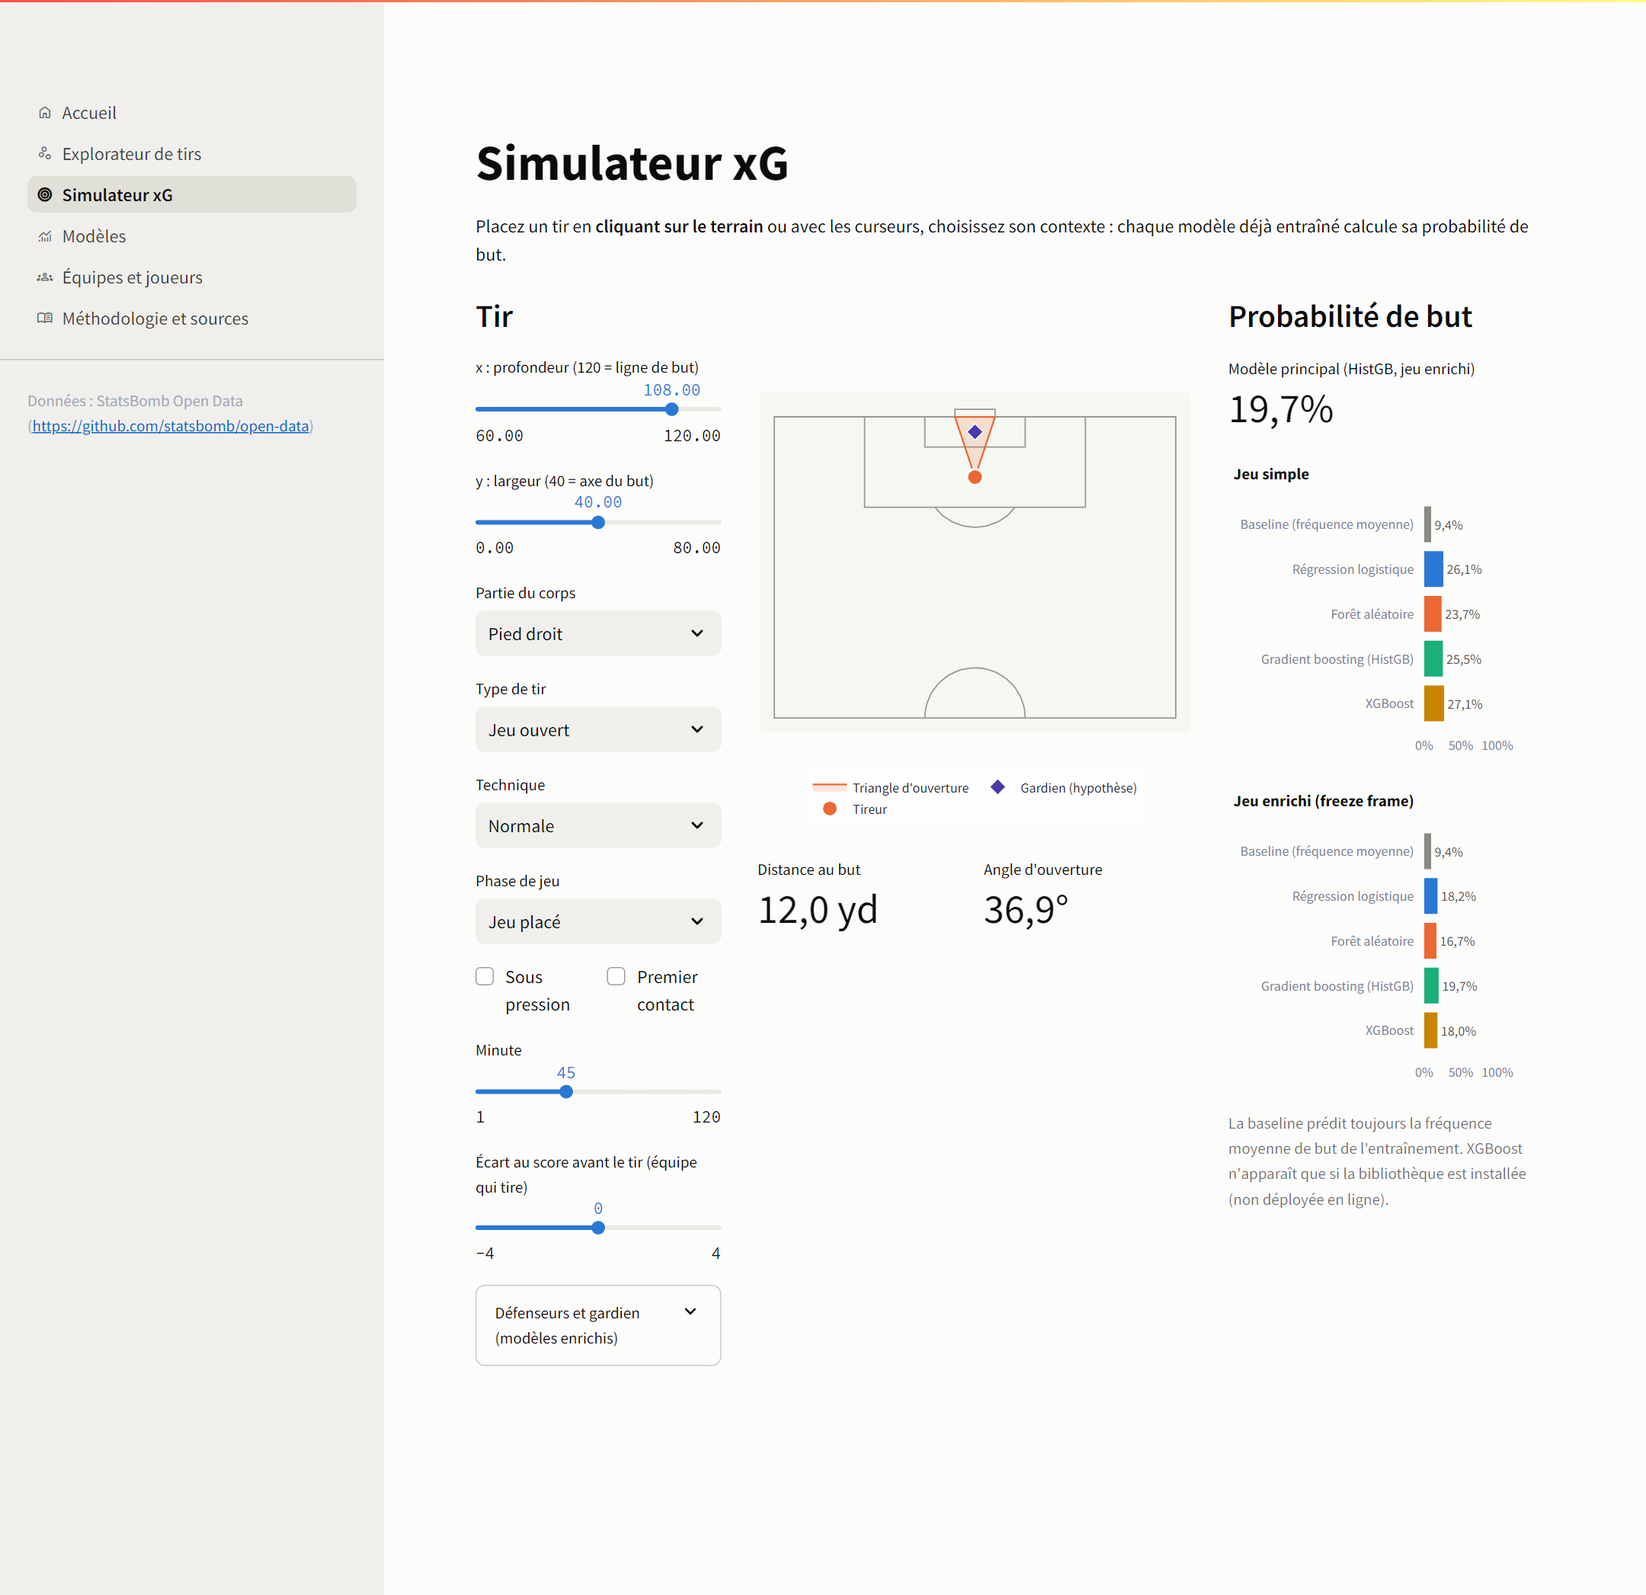
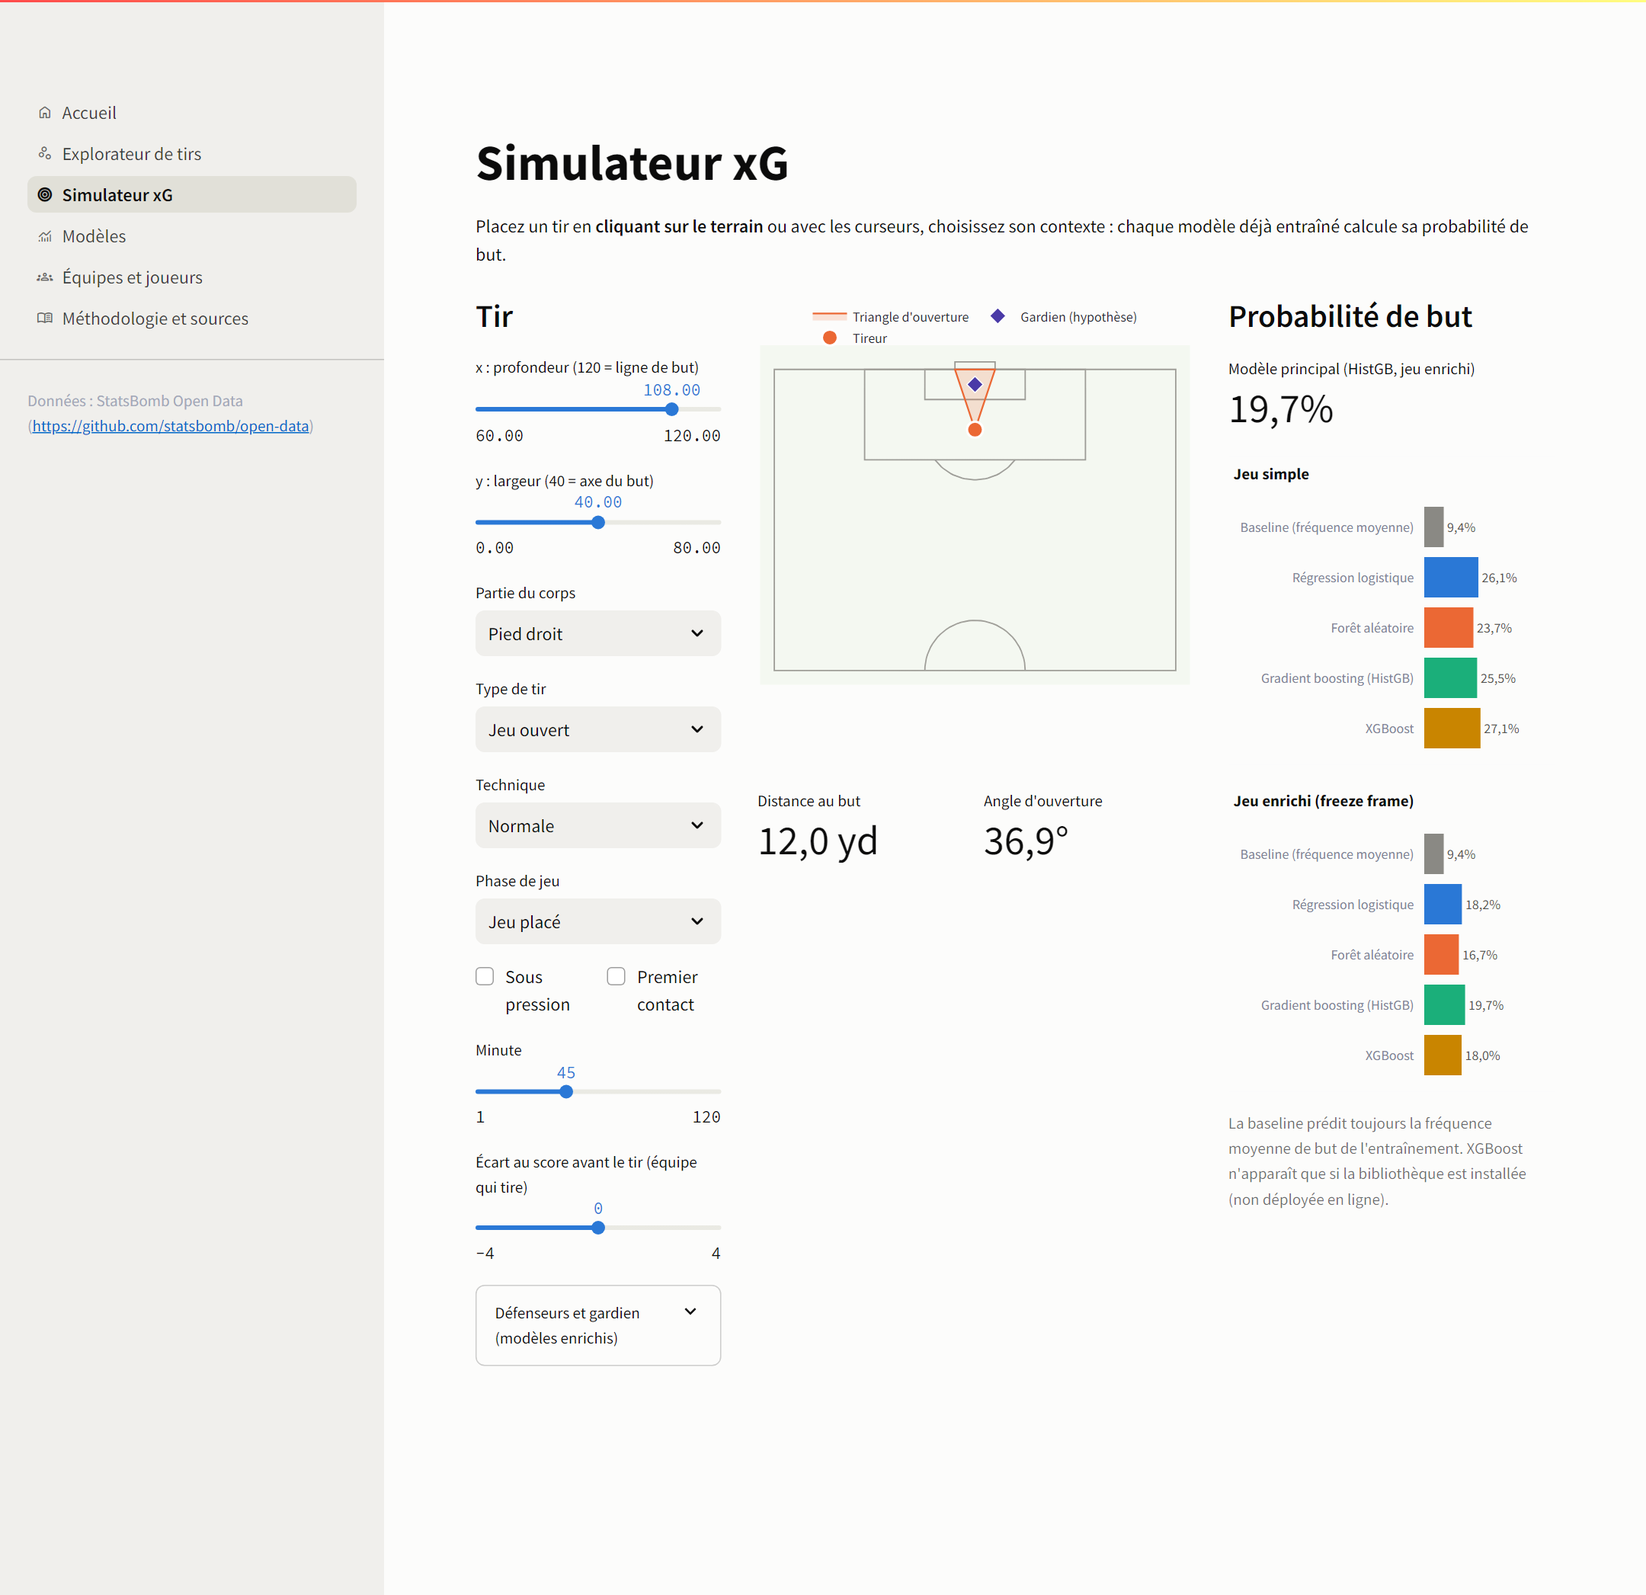
Doc : CHAPITRES.md, DEPLOY.md verifie en environnement vierge, captures finales

diff --git a/scripts/make_architecture.py b/scripts/make_architecture.py
@@ -57,21 +57,50 @@ def anchor(key: str, side: str) -> tuple[float, float]:
 def main() -> None:
     fig, ax = plt.subplots(figsize=(13, 6.6))
     for x, y, w, h, title, detail, bg, edge in BOXES.values():
-        ax.add_patch(FancyBboxPatch((x, y), w, h, boxstyle="round,pad=0.02,rounding_size=0.12",
-                                    fc=bg, ec=edge, lw=1.4))
-        ax.text(x + w / 2, y + h * 0.63, title, ha="center", va="center", fontsize=11,
-                fontweight="bold", color=TEXT_PRIMARY)
-        ax.text(x + w / 2, y + h * 0.28, detail, ha="center", va="center", fontsize=8.8,
-                color=TEXT_SECONDARY)
+        ax.add_patch(
+            FancyBboxPatch((x, y), w, h, boxstyle="round,pad=0.02,rounding_size=0.12", fc=bg, ec=edge, lw=1.4)
+        )
+        ax.text(
+            x + w / 2,
+            y + h * 0.63,
+            title,
+            ha="center",
+            va="center",
+            fontsize=11,
+            fontweight="bold",
+            color=TEXT_PRIMARY,
+        )
+        ax.text(x + w / 2, y + h * 0.28, detail, ha="center", va="center", fontsize=8.8, color=TEXT_SECONDARY)
     for a, b, sa, sb in ARROWS:
-        ax.add_patch(FancyArrowPatch(anchor(a, sa), anchor(b, sb), arrowstyle="-|>", mutation_scale=14,
-                                     color="#52514e", lw=1.2, connectionstyle="arc3,rad=0.0"))
+        ax.add_patch(
+            FancyArrowPatch(
+                anchor(a, sa),
+                anchor(b, sb),
+                arrowstyle="-|>",
+                mutation_scale=14,
+                color="#52514e",
+                lw=1.2,
+                connectionstyle="arc3,rad=0.0",
+            )
+        )
     ax.text(0.2, 6.25, "Architecture du projet xG", fontsize=14, fontweight="bold", color=TEXT_PRIMARY)
-    ax.text(0.2, 5.95, "Bleu : scripts et modules Python - Vert : artefacts versionnés dans Git - "
-            "Gris : données (non versionnées, licence StatsBomb) - Orange : application",
-            fontsize=9, color=TEXT_SECONDARY)
-    ax.text(0.2, 1.0, "Tests : pytest (variables,\nfuite train/test, modèles)\n+ AppTest par page\n"
-            "+ captures Playwright", fontsize=9, color=TEXT_SECONDARY, va="center")
+    ax.text(
+        0.2,
+        5.95,
+        "Bleu : scripts et modules Python - Vert : artefacts versionnés dans Git - "
+        "Gris : données (non versionnées, licence StatsBomb) - Orange : application",
+        fontsize=9,
+        color=TEXT_SECONDARY,
+    )
+    ax.text(
+        0.2,
+        1.0,
+        "Tests : pytest (variables,\nfuite train/test, modèles)\n+ AppTest par page\n"
+        "+ captures Playwright",
+        fontsize=9,
+        color=TEXT_SECONDARY,
+        va="center",
+    )
     ax.set_xlim(0, 13.2)
     ax.set_ylim(0, 6.5)
     ax.axis("off")

diff --git a/app/common.py b/app/common.py
@@ -3,11 +3,8 @@
 from __future__ import annotations
 
 import json
-import os
 import sys
 from pathlib import Path
-
-os.environ.setdefault("LOKY_MAX_CPU_COUNT", str(os.cpu_count() or 1))
 
 import joblib
 import numpy as np
@@ -221,8 +218,15 @@ def half_pitch(height: int = 520) -> go.Figure:
         )
     )
     fig.update_xaxes(range=[-1, 81], visible=False, fixedrange=True, constrain="domain")
+    # Terrain colle en haut (sous la legende) quand la hauteur disponible est plus grande.
     fig.update_yaxes(
-        range=[59, 123], visible=False, scaleanchor="x", scaleratio=1, fixedrange=True, constrain="domain"
+        range=[59, 123],
+        visible=False,
+        scaleanchor="x",
+        scaleratio=1,
+        fixedrange=True,
+        constrain="domain",
+        constraintoward="top",
     )
     fig.update_layout(
         height=height,

diff --git a/app/views/simulateur.py b/app/views/simulateur.py
@@ -200,7 +200,7 @@ with result_col:
             title=dict(text=FS_LABELS[fs], font=dict(size=14)),
             height=60 + 42 * len(sub),
             margin=dict(l=10, r=50, t=40, b=10),
-            xaxis=dict(range=[0, x_max], tickformat=".0%", gridcolor="#e4e3df"),
+            xaxis=dict(range=[0, x_max], showticklabels=False, showgrid=False),
             yaxis=dict(autorange="reversed"),
             plot_bgcolor="rgba(0,0,0,0)",
             font=dict(color=TEXT_SECONDARY),

diff --git a/app/views/equipes_joueurs.py b/app/views/equipes_joueurs.py
@@ -110,8 +110,7 @@ with tab_t:
     with left:
         st.plotly_chart(fig, use_container_width=True, config={"displayModeBar": False})
         st.caption(
-            "Au-dessus de la diagonale (orange) : plus de buts que d'xG. "
-            "xG SB = xG StatsBomb (référence)."
+            "Au-dessus de la diagonale (orange) : plus de buts que d'xG. " "xG SB = xG StatsBomb (référence)."
         )
     with right:
         st.dataframe(

diff --git a/scripts/train.py b/scripts/train.py
@@ -15,13 +15,11 @@ from __future__ import annotations
 
 import argparse
 import json
-import os
 import sys
 import time
 from pathlib import Path
 
 sys.path.insert(0, str(Path(__file__).resolve().parents[1]))
-os.environ.setdefault("LOKY_MAX_CPU_COUNT", str(os.cpu_count() or 1))
 
 import joblib  # noqa: E402
 import matplotlib  # noqa: E402

diff --git a/app/views/explorateur.py b/app/views/explorateur.py
@@ -57,7 +57,7 @@ if n == 0:
     st.warning("Aucun tir ne correspond aux filtres.")
     st.stop()
 
-fig = half_pitch(height=560)
+fig = half_pitch(height=450)
 xg = df[xg_col] if xg_col else df["statsbomb_xg"]
 custom = np.stack(
     [

diff --git a/docs/CHAPITRES.md b/docs/CHAPITRES.md
@@ -1,0 +1,194 @@
+# Correspondance résultats ↔ sections du mémoire
+
+Toutes les valeurs ci-dessous sont **calculées par le code** et lisibles dans les fichiers cités :
+`reports/dataset_summary.csv`, `reports/metrics.csv`, `reports/metrics.json`,
+`reports/permutation_importance.csv`, `reports/error_analysis.csv` et `reports/error_examples.csv`.
+Elles proviennent du run de `scripts/train.py` (graine 42, scikit-learn 1.5.2). Deux exécutions
+successives ont donné des valeurs identiques.
+
+Notation : IC 95 % = intervalle de confiance à 95 % obtenu par bootstrap (1 000 tirages de matchs
+avec remise sur le jeu de test).
+
+---
+
+## 3.3 Données
+
+| Élément | Valeur exacte | Source |
+|---|---|---|
+| Source | StatsBomb Open Data, dépôt GitHub `statsbomb/open-data`, fichiers JSON | `src/config.py`, `src/data.py` |
+| Compétitions | 11 couples compétition/saison masculins (tableau ci-dessous) | `reports/dataset_summary.csv` |
+| Matchs | **1 865** | idem |
+| Tirs retenus | **45 827** | idem |
+| Buts | **4 319**, soit un taux de conversion de **9,42 %** | idem |
+| Penalties exclus | 523 | idem |
+| Tirs au but exclus (période 5) | 241 | idem |
+| Tirs avec freeze frame | 100 % (35 tirs sans gardien dans le freeze frame, 1 sans défenseur) | `shots.parquet` |
+| Somme des xG StatsBomb | 4 202,5 | `reports/dataset_summary.csv` |
+| Volume brut (cache compressé) | environ 539 Mo (.json.gz), non versionné | `data/raw/` |
+
+| Compétition | Saison | Matchs | Tirs | Buts | Conversion |
+|---|---|---|---|---|---|
+| FIFA World Cup | 2022 | 64 | 1 430 | 152 | 10,63 % |
+| FIFA World Cup | 2018 | 64 | 1 638 | 135 | 8,24 % |
+| UEFA Euro | 2020 | 51 | 1 234 | 122 | 9,89 % |
+| UEFA Euro | 2024 | 51 | 1 304 | 98 | 7,52 % |
+| Copa America | 2024 | 32 | 741 | 63 | 8,50 % |
+| African Cup of Nations | 2023 | 52 | 1 162 | 98 | 8,43 % |
+| Premier League | 2015/2016 | 380 | 9 817 | 914 | 9,31 % |
+| La Liga | 2015/2016 | 380 | 9 071 | 945 | 10,42 % |
+| Serie A | 2015/2016 | 380 | 9 877 | 858 | 8,69 % |
+| 1. Bundesliga | 2015/2016 | 34 (partielle) | 830 | 82 | 9,88 % |
+| Ligue 1 | 2015/2016 | 377 | 8 723 | 852 | 9,77 % |
+
+Figures : `reports/figures/fig_carte_tirs.png` (localisation des tirs et des buts) et
+`reports/figures/fig_taux_but_distance.png` (taux de but selon la distance).
+
+Licence : voir le README, section « Licence des données ». La redistribution est interdite, donc
+aucune donnée n'est versionnée dans le dépôt.
+
+## 3.5 Variables
+
+| Jeu | Variables | Fichier |
+|---|---|---|
+| Simple (11) | distance, angle, minute, écart au score avant le tir, sous pression, premier contact, volée/demi-volée, partie du corps, type de tir, technique, phase de jeu | `src/features.py` (`FEATURE_SETS`) |
+| Enrichi (16) | simple + distance tireur-gardien, distance gardien-but, gardien dans le triangle, nombre de défenseurs dans le triangle tireur-poteaux, distance du défenseur le plus proche | idem |
+
+- Distance = √((120 − x)² + (40 − y)²). Angle = arccos de l'angle entre les vecteurs tireur → (120, 36)
+  et tireur → (120, 44). Les valeurs connues sont testées dans `tests/test_features.py` :
+  (120, 40) donne une distance de 0, (108, 40) une distance de 12, et l'angle au point de penalty
+  vaut 2·atan(1/3).
+- Statistiques descriptives (jeu complet) : distance médiane **19,04 yards** (moyenne 19,51),
+  angle médian **0,34 rad**, défenseurs dans le triangle : médiane 1 (moyenne 0,78), défenseur le
+  plus proche : médiane **2,35 yards**, distance tireur-gardien : médiane **15,34 yards**.
+- Répartition : pied droit 23 710, pied gauche 14 348, tête 7 634, autre 135 ; jeu ouvert 43 692,
+  coup franc direct 2 120, corner direct 15. Tirs sous pression : 26,0 % ; premier contact : 31,2 %.
+- Le xG StatsBomb n'est **jamais** une variable explicative : il sert de référence externe, ce que
+  vérifie le test `test_statsbomb_xg_n_est_pas_une_variable`.
+
+## 3.6 Modèles
+
+| Modèle | Prétraitement | Meilleurs hyperparamètres (simple / enrichi) |
+|---|---|---|
+| Baseline | aucun (fréquence moyenne de but à l'entraînement) | - |
+| Régression logistique | imputation par la médiane, normalisation, one-hot | C = 1 / C = 1 |
+| Forêt aléatoire (200 arbres) | imputation, one-hot | profondeur 8, feuille ≥ 10, max_features 0,5 / profondeur 10, feuille ≥ 20, max_features 0,5 |
+| HistGradientBoosting (**modèle principal**) | imputation, one-hot | lr 0,03, 200 itérations, 7 feuilles, feuille ≥ 20 / lr 0,03, 200 itérations, 15 feuilles, feuille ≥ 20 |
+| XGBoost (comparaison) | imputation, one-hot | profondeur 2, lr 0,03, 600 arbres, min_child_weight 1 (identiques sur les deux jeux) |
+
+Le modèle principal est choisi sur la meilleure log-loss en validation croisée : 0,2606 (simple) et
+**0,2499** (enrichi). Le choix se fait parmi les modèles scikit-learn, déployables en ligne.
+Source : `reports/metrics.json` (`meilleurs_hyperparametres`, `cv_log_loss`, `modele_principal`).
+Fichiers des modèles : `models/<jeu>__<modele>.joblib`.
+
+## 3.7 Protocole expérimental
+
+| Ensemble | Matchs | Tirs | Buts |
+|---|---|---|---|
+| Entraînement | 1 193 | 29 321 | 2 757 |
+| Calibration | 299 | 7 332 | 670 |
+| Test | 373 | 9 174 | 892 |
+
+- Découpage par **match** (GroupShuffleSplit, graine 42) : test 20 % des matchs, calibration 20 %
+  du reste. L'absence de match commun est vérifiée dans le script et par
+  `tests/test_models.py::test_split_reel_sans_match_commun` (identifiants dans `models/split.json`).
+- Réglage : GridSearchCV avec GroupKFold(5) sur l'entraînement, critère log-loss.
+- Recalibrage : pour chaque modèle, la méthode (aucune, Platt ou isotonique) est choisie par
+  GroupKFold(5) **sur l'ensemble de calibration uniquement**. Résultat : **aucune** pour tous les
+  modèles. Exemple pour HistGB enrichi : log-loss en CV de 0,2446 sans calibration, 0,2446 avec
+  Platt, 0,2486 en isotonique.
+- Métriques sur le test : ROC-AUC, score de Brier, log-loss, IC 95 % par bootstrap sur les matchs
+  et IC de la différence avec le xG StatsBomb.
+
+## 4.2 Architecture
+
+- Schéma : `docs/architecture.png` (généré par `scripts/make_architecture.py`).
+- Chaîne : `download_data.py` → `build_dataset.py` → `train.py` → `models/` + `reports/` →
+  application `app/streamlit_app.py` (6 pages dans `app/views/`).
+- Qualité : 31 tests pytest (variables, données, modèles, fuite, pages Streamlit avec AppTest),
+  ruff sans erreur, captures Playwright.
+
+## 4.3 Résultats
+
+| Modèle | Jeu | ROC-AUC [IC 95 %] | Brier [IC 95 %] | Log-loss [IC 95 %] | Gain de Brier vs baseline |
+|---|---|---|---|---|---|
+| Baseline | - | 0,500 | 0,0878 [0,0825 ; 0,0928] | 0,3190 [0,3042 ; 0,3330] | 0 % |
+| Régression logistique | simple | 0,793 [0,778 ; 0,809] | 0,0751 [0,0707 ; 0,0793] | 0,2641 [0,2506 ; 0,2768] | 14,4 % |
+| Forêt aléatoire | simple | 0,795 [0,780 ; 0,811] | 0,0754 [0,0710 ; 0,0797] | 0,2636 [0,2505 ; 0,2767] | 14,1 % |
+| HistGB | simple | 0,796 [0,782 ; 0,812] | 0,0754 [0,0710 ; 0,0796] | 0,2636 [0,2505 ; 0,2763] | 14,1 % |
+| XGBoost | simple | 0,798 [0,783 ; 0,814] | 0,0751 [0,0707 ; 0,0792] | 0,2626 [0,2492 ; 0,2753] | 14,5 % |
+| Régression logistique | enrichi | 0,810 [0,795 ; 0,825] | 0,0734 [0,0691 ; 0,0775] | 0,2567 [0,2440 ; 0,2695] | 16,4 % |
+| Forêt aléatoire | enrichi | 0,815 [0,801 ; 0,830] | 0,0721 [0,0680 ; 0,0763] | 0,2528 [0,2402 ; 0,2658] | 17,8 % |
+| **HistGB (principal)** | **enrichi** | **0,819 [0,805 ; 0,834]** | **0,0719 [0,0677 ; 0,0761]** | **0,2517 [0,2391 ; 0,2647]** | **18,1 %** |
+| XGBoost | enrichi | 0,820 [0,806 ; 0,835] | 0,0720 [0,0677 ; 0,0761] | 0,2515 [0,2388 ; 0,2644] | 18,0 % |
+| xG StatsBomb | référence | 0,821 [0,807 ; 0,836] | 0,0714 [0,0670 ; 0,0756] | 0,2509 [0,2380 ; 0,2640] | 18,7 % |
+
+Points saillants, tous lisibles dans `reports/metrics.json` :
+
+- **Apport du freeze frame** : avec HistGB, l'AUC passe de 0,796 à 0,819 (+0,023) et le Brier de
+  0,0754 à 0,0719.
+- **Comparaison avec StatsBomb** : pour HistGB enrichi, l'IC 95 % de la différence d'AUC (modèle −
+  StatsBomb) vaut [−0,0090 ; +0,0044], celui du Brier [−0,0004 ; +0,0016] et celui de la log-loss
+  [−0,0023 ; +0,0039]. Tous contiennent 0 : **pas de différence significative** avec le xG StatsBomb.
+  À l'inverse, tous les modèles du jeu simple, ainsi que la régression logistique enrichie
+  (AUC [−0,0184 ; −0,0030]), sont significativement moins discriminants que StatsBomb.
+- **Calibration globale sur le test** : 892 buts réels, contre 865,0 xG pour HistGB enrichi et
+  843,6 xG pour StatsBomb.
+- **Importance par permutation** (hausse de la log-loss, HistGB enrichi) : angle 0,0514, distance
+  tireur-gardien 0,0199, distance 0,0105, défenseurs dans le triangle 0,0100, défenseur le plus
+  proche 0,0089, partie du corps 0,0078. Minute, sous pression et premier contact ont une
+  importance d'environ 0.
+- **Analyse d'erreurs (test)** : corrélation de **0,911** entre le xG du modèle et celui de StatsBomb.
+  Par distance : à 6-12 yards, 358 buts pour 340,3 xG (sous-estimation) ; au-delà de 30 yards,
+  15 buts pour 20,2 xG (surestimation). Pied gauche : 283 buts pour 257,0 xG.
+
+Figures (300 dpi) :
+
+| Figure | Fichier |
+|---|---|
+| Courbes ROC, jeu simple / enrichi | `reports/figures/fig_roc_simple.png`, `reports/figures/fig_roc_enrichi.png` |
+| Calibration, jeu simple / enrichi | `reports/figures/fig_calibration_simple.png`, `reports/figures/fig_calibration_enrichi.png` |
+| Importance par permutation | `reports/figures/fig_importance_simple.png`, `reports/figures/fig_importance_enrichi.png` |
+| Carte des tirs, taux de but par distance | `reports/figures/fig_carte_tirs.png`, `reports/figures/fig_taux_but_distance.png` |
+
+## 4.4 Application
+
+| Page | Capture |
+|---|---|
+| Accueil | `docs/screenshots/01_accueil.png` |
+| Explorateur de tirs | `docs/screenshots/02_explorateur_tirs.png` |
+| Simulateur xG | `docs/screenshots/03_simulateur_xg.png` et `docs/screenshots/03b_simulateur_apres_clic.png` (après un clic sur le terrain) |
+| Modèles | `docs/screenshots/04_modeles.png` |
+| Équipes et joueurs | `docs/screenshots/05_equipes_joueurs.png` |
+| Méthodologie et sources | `docs/screenshots/06_methodologie_sources.png` |
+
+- Exemple du simulateur (modèle principal) : un tir du pied droit en jeu ouvert au point de
+  penalty (108, 40), avec les valeurs par défaut, vaut **19,7 %** ; en (111, 30), il vaut **8,8 %**.
+- Version en ligne : téléchargement de 115 matchs (CdM 2022 et Euro 2024) au premier lancement, en
+  environ 18 s lors du test en environnement vierge. Sur la CdM 2022, on retrouve 1 430 tirs,
+  152 buts, 141,5 xG pour le modèle et 137,9 xG pour StatsBomb.
+- Les captures ont été réalisées avec les données locales complètes (11 compétitions).
+
+## 4.5 Discussion et limites constatées
+
+1. **Les performances atteignent un plafond proche du xG StatsBomb.** Les modèles à arbres
+   enrichis ne s'en distinguent pas statistiquement. Mais StatsBomb a peut-être entraîné son
+   modèle sur ces mêmes matchs : la comparaison est indicative, pas un « match » équitable.
+2. **Les modèles simples se valent tous** (AUC de 0,793 à 0,798, IC très recouvrants). Le gain vient
+   des variables (freeze frame), pas de l'algorithme.
+3. **Recalibrage** : aucun n'améliorait la log-loss sur l'ensemble de calibration. Les modèles
+   optimisés en log-loss étaient déjà bien calibrés. Sur le test, ils sous-estiment légèrement le
+   total (865,0 xG contre 892 buts), en partie parce que le taux de but du test (9,72 %) dépasse
+   celui de l'entraînement (9,40 %).
+4. **Biais d'équipe** (page Équipes, sur toutes les données, donc en partie dans l'échantillon) :
+   les meilleures équipes dépassent leurs xG (Real Madrid +21,0, AS Roma +17,6, PSG +14,9). Le
+   modèle ignore la qualité du tireur.
+5. **Données** : la saison 2015/2016 est surreprésentée (38 318 tirs sur 45 827) et la Bundesliga
+   est partielle. Il n'y a que des compétitions masculines, et l'annotation « sous pression »
+   est manuelle.
+6. **Variables absentes** : vitesse et hauteur du ballon, qualité du tireur, suivi continu (le
+   freeze frame n'est qu'une image fixe). Le simulateur fixe des hypothèses pour le gardien et les
+   défenseurs (médianes de l'entraînement).
+7. **Hyperparamètres** : l'optimum de XGBoost est en bord de grille (profondeur 2, 600 arbres) ;
+   étendre la grille pourrait gagner quelques millièmes.
+8. **Version en ligne** : la licence interdit de redistribuer les données. Les cartes en ligne se
+   limitent donc à deux tournois, tandis que les métriques portent sur le jeu complet.
